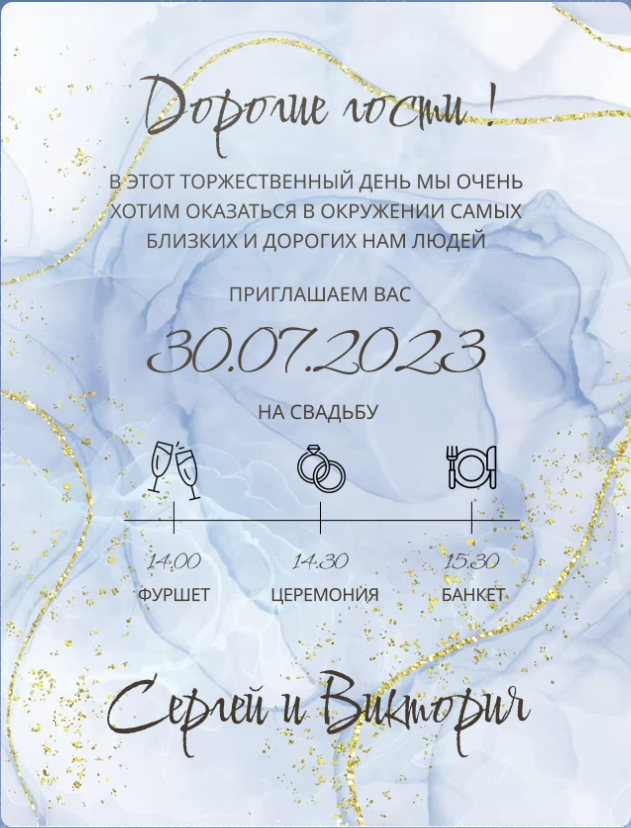
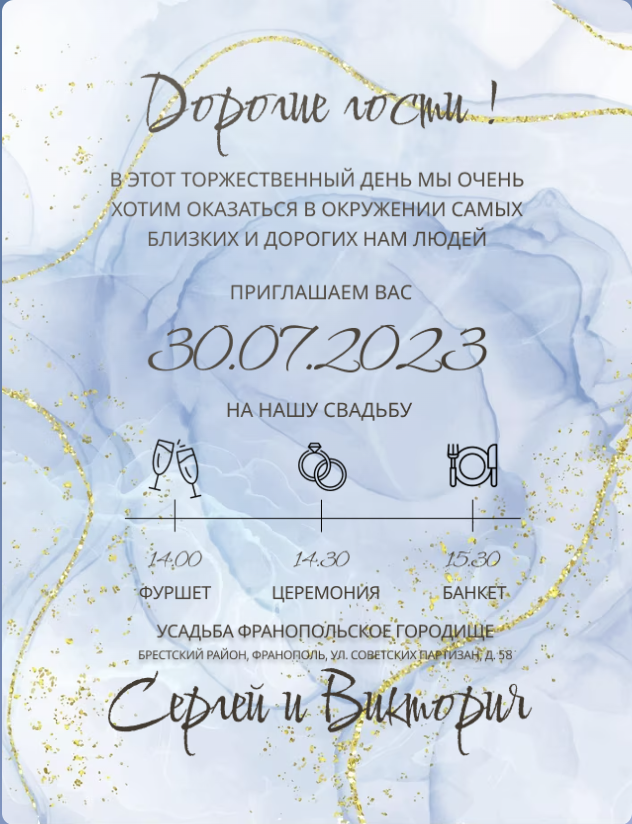
Updates

diff --git a/index.html b/index.html
@@ -21,7 +21,7 @@
           class="atvImg-layer"
           data-img="bg.avif"
         ></div>
-        <div class="atvImg-layer" data-img="./text3.png"></div>
+        <div class="atvImg-layer" data-img="./text5.png"></div>
       </div>
     </div>
     <script src="./app.js"></script>
